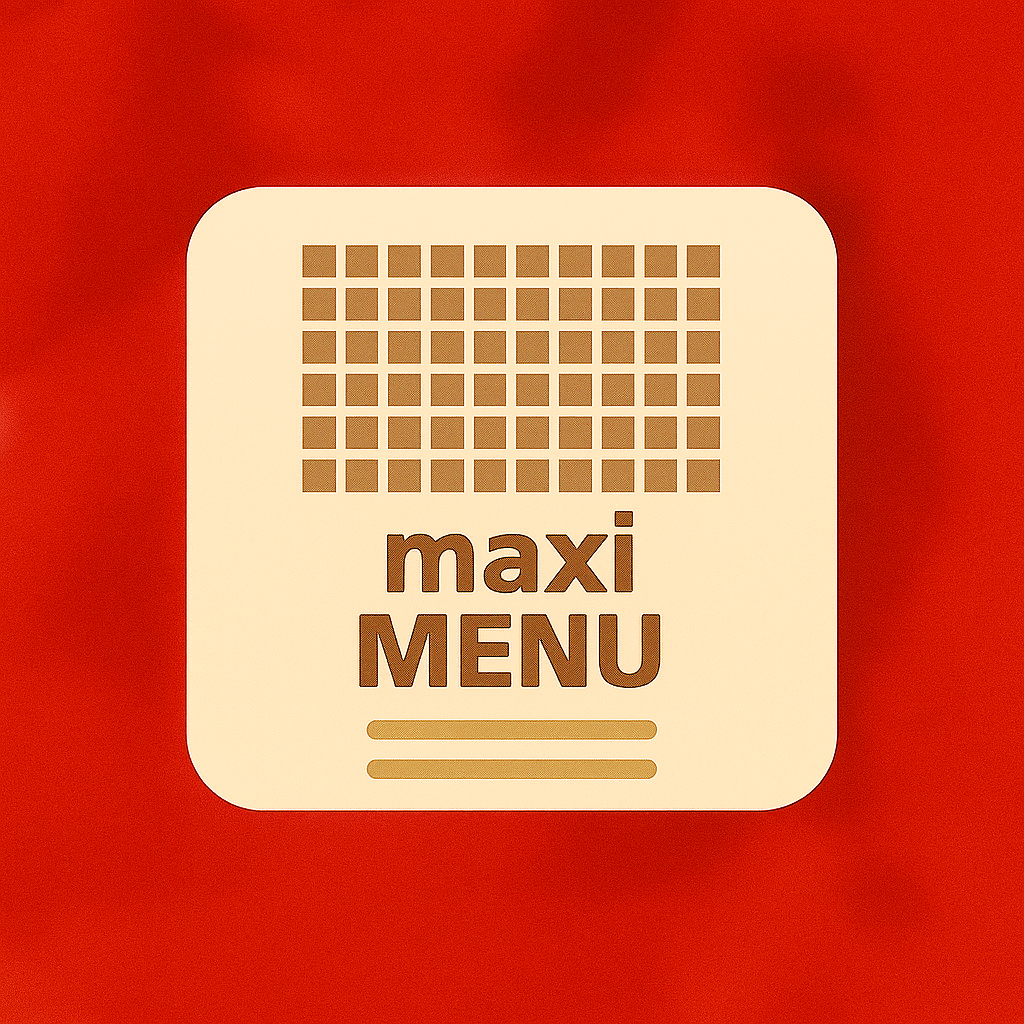
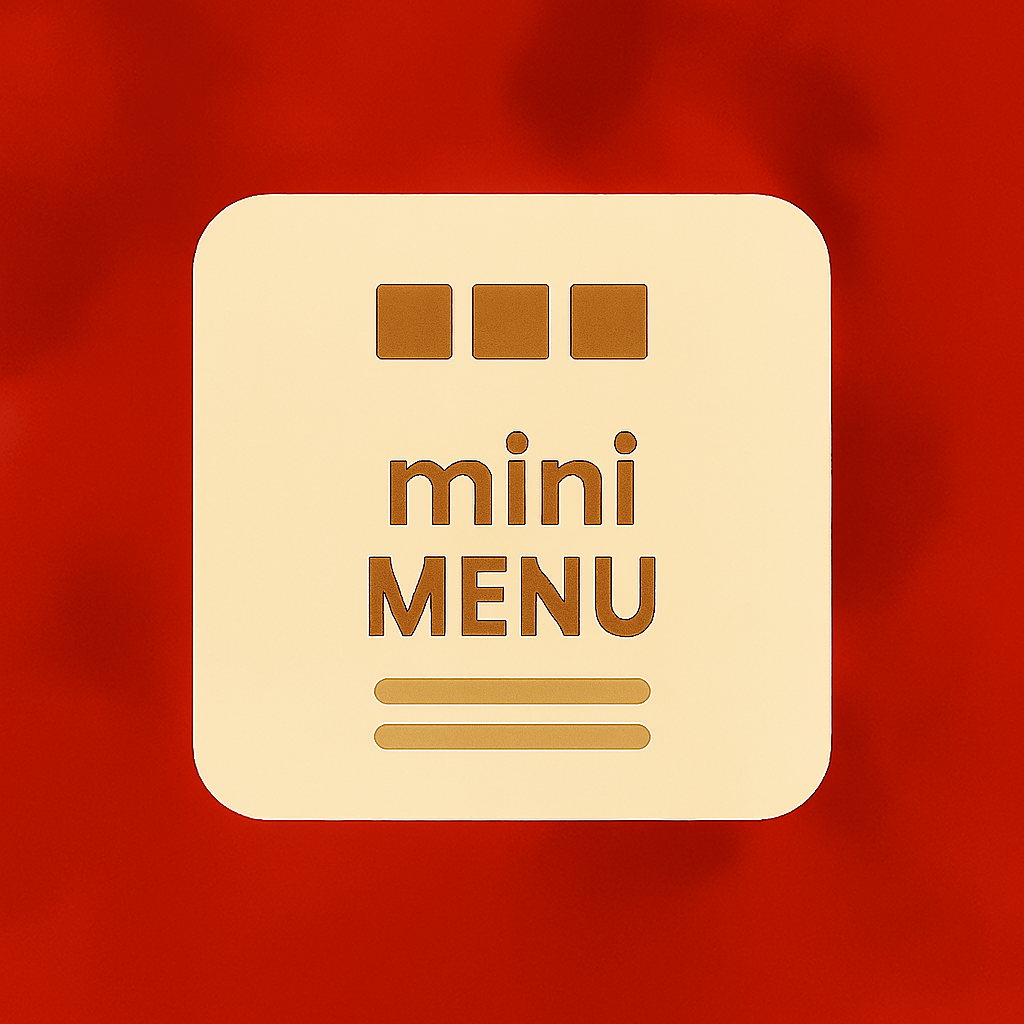
fixes

diff --git a/ade-subsystem/js/db-mini.js b/ade-subsystem/js/db-mini.js
@@ -1,15 +1,7 @@
 /// COPY HERE <db> // database - txt file / baza danych - plik txt
         const dataFromFile = `
-17.09.2025  20:27                 0 github.com!!Adrian-x9$$38 Nasz GitHub$$Autorskie projekty na GitHub.link
+17.09.2025  18:40                 0 _!!index-maxi.html$$11 maxi MENU$$Otworz maxi MENU.link
 17.09.2025  20:19                 0 _!!ade-shared!!about.html$$31 VisuDir$$Oprogramowanie do wizualizacji zawartosci katalogow.link
-17.09.2025  19:00                 0 _!!ade-shared!!author.html$$17 Autor$$Adrian Ulbrych. Informacje o autorze.link
-17.09.2025  19:00                 0 _!!ade-shared!!contact.html$$15 Kontakt$$Masz pytania, uwagi - skontaktuj sie!.link
-17.09.2025  20:21                 0 _!!adeDesk!!index.html$$33 ade Desk$$Oprogramowanie do pracy zdalnej i nadzoru.link
-17.09.2025  20:26                 0 _!!adeINFO!!index.html$$35 ade INFO$$Twoje IP i kilka dodatkowych informacji.link
-17.09.2025  20:26                 0 _!!adePages!!index.html$$36 ade Pages$$Projekty witryn internetowych.link
-17.09.2025  20:26                 0 _!!adeSync!!index.html$$34 ade Sync$$System do codziennych kopii zapasowych.link
-17.09.2025  22:51                 0 _!!AI!!index.html$$71 AI$$71 Informacje dotyczace Sztucznej Inteligencji, AI.link
-17.09.2025  19:59                 0 _!!Certificates!!index.html$$37 Certyfikaty$$Zobacz nasze certyfikaty.link
 17.09.2025  22:50                 0 _!!Cyprus!!index.html$$66 Cypr$$Galeria fotografii z Cypru.link
 17.09.2025  22:50                 0 _!!Czechia!!index.html$$60 Czechy$$Galeria fotografii z Czech.link
 17.09.2025  22:50                 0 _!!Czechia!!index.html&&search=Ostrava$$61 Ostrava$$Galeria fotografii z Ostravy, Czechy.link
@@ -22,11 +14,7 @@
 17.09.2025  22:10                 0 _!!Germany!!index.html$$57 Niemcy$$Galeria fotografii z Niemiec.link
 17.09.2025  22:50                 0 _!!Germany!!index.html&&search=Berlin$$59 Berlin$$Galeria fotografii z Berlina.link
 17.09.2025  22:49                 0 _!!Germany!!index.html&&search=Dortmund$$58 Dortmund$$Galeria fotografii z Dortmundu.link
-17.09.2025  18:41                 0 _!!index-midi.html$$12 midi MENU$$Otworz srednie MENU.link
-17.09.2025  19:57                 0 _!!index.html$$13 mini MENU$$Otworz MENU minimalne.link
-17.09.2025  19:58                 0 _!!index-portfolio.html$$16 Portfolio$$Obejrzyj nasze portfolio.link
 17.09.2025  20:37                 0 _!!index-travel.html$$51 Podroze$$Dzialanie VisuDir na przykladzie foto galerii.link
-17.09.2025  18:40                 0 _!!index.html$$11 maxi MENU$$Otworz MENU standardowe.link
 17.09.2025  21:41                 0 _!!Poland!!index.html$$52 Polska$$Galeria fotografii z Polski.link
 17.09.2025  21:47                 0 _!!Poland!!index.html&&search=Gliwice$$53 Gliwice$$Galeria fotografii z Gliwic, Slask, Silesia.link
 17.09.2025  22:10                 0 _!!Poland!!index.html&&search=Morze$$56 Morze Baltyckie$$Galeria fotografii Morza Baltyckiego, Baltic Sea.link

diff --git a/ade-subsystem/js/config-subsystem-mini.js b/ade-subsystem/js/config-subsystem-mini.js
@@ -1,0 +1,87 @@
+const config2 = {
+  /// Subsystem specific settings // Ustawienia specyficzne dla podsystemu
+  pageSettings: {
+    pageKey: "indexMaxi",
+    pageTitle: "ade ▪ maxi MENU",
+    // pathCorrection: ".", // <-- NOWA LINIA: Definiuje korektę dla podsystemu
+    showMiniLogo: true,
+    showVisuDirButton: true,
+    showLanguageButton: true,
+    showBackButton: false,
+
+    screenSaverTimeout: 20,
+    defaultBgVideo: 1,
+    bgVideoStartNum: 1,
+    bgVideoEndNum: 76,
+    defaultVideoBg: true,
+    defaultLabelsVisible: true,
+    slideshowAnimations: true,
+
+    defaultSort: "nameAsc", //nameAsc | nameDesc | dateAsc | dateDesc | sizeAsc | sizeDesc | shuffle
+    defaultRows: 2,
+    defaultSizePercent: 66,
+    baseBoxWidth: 256,
+    estimatedItemHeight: 380,
+    defaultViewMode: "view-7",
+    hoverOverlayColor: "rgba(204, 0, 0, 0.7)",
+    hoverTextColor: "#ffffff",
+
+    defaultGeneratorMode: "visible",
+    defaultGeneratorCount: 5,
+    generatorOptions: [1, 2, 3, 4, 5, 6, 7, 8, 9, 10, 15, 25, 50, 100],
+
+    defaultVideoExpanded: false,
+    predefinedFilters: [
+      {
+        label: "ADE",
+        search: "ade",
+      },
+      {
+        label: "E-booki",
+        search: "e-book",
+      },
+      {
+        label: "Galerie",
+        search: "galeri",
+      },
+      {
+        label: "Hiszpania",
+        search: "Hiszpania",
+      },
+      {
+        label: "Niemcy",
+        search: "Niemcy",
+      },
+      {
+        label: "Polska",
+        search: "Polska",
+      },
+      {
+        label: "Poradniki",
+        search: "Poradniki",
+      },
+    ],
+
+    defaultThemeFile: './ade-subsystem/css/styles-subsystem.css',
+  },
+  paths: {
+    /// Subsystem specific paths // Ścieżki specyficzne dla podsystemu
+    databaseFileName: "./ade-subsystem/ade-tools/.db-secure.txt",
+    dataFolderName: "./ade-subsystem/files",
+    coversFolderName: "./ade-subsystem/preview",
+    previewHdFolderName: "./ade-subsystem/preview-hd",
+  },
+};
+
+const config = {
+  ...config1,
+  pageSettings: {
+    ...config1.pageSettings,
+    ...config2.pageSettings,
+    ...config0.pageSettings,
+  },
+  paths: {
+    ...config1.paths,
+    ...config2.paths,
+  },
+};

diff --git a/index.html b/index.html
@@ -31,7 +31,7 @@
                 // Skrypty JS (współdzielone z prefiksem, lokalne bez)
                 `<script src="${prefix}/ade-shared/js/config-shared.js" defer><\/script>`,
                 `<script src="./ade-subsystem/js/config-subsystem.js" defer><\/script>`,
-                `<script src="./ade-subsystem/js/db.js" defer><\/script>`,
+                `<script src="./ade-subsystem/js/db-mini.js" defer><\/script>`,
                 `<script src="./ade-subsystem/js/db-langs.js" defer><\/script>`,
                 `<script src="./ade-subsystem/js/db-tags.js" defer><\/script>`,
                 `<script src="${prefix}/ade-shared/js/lang-shared.js" defer><\/script>`,
